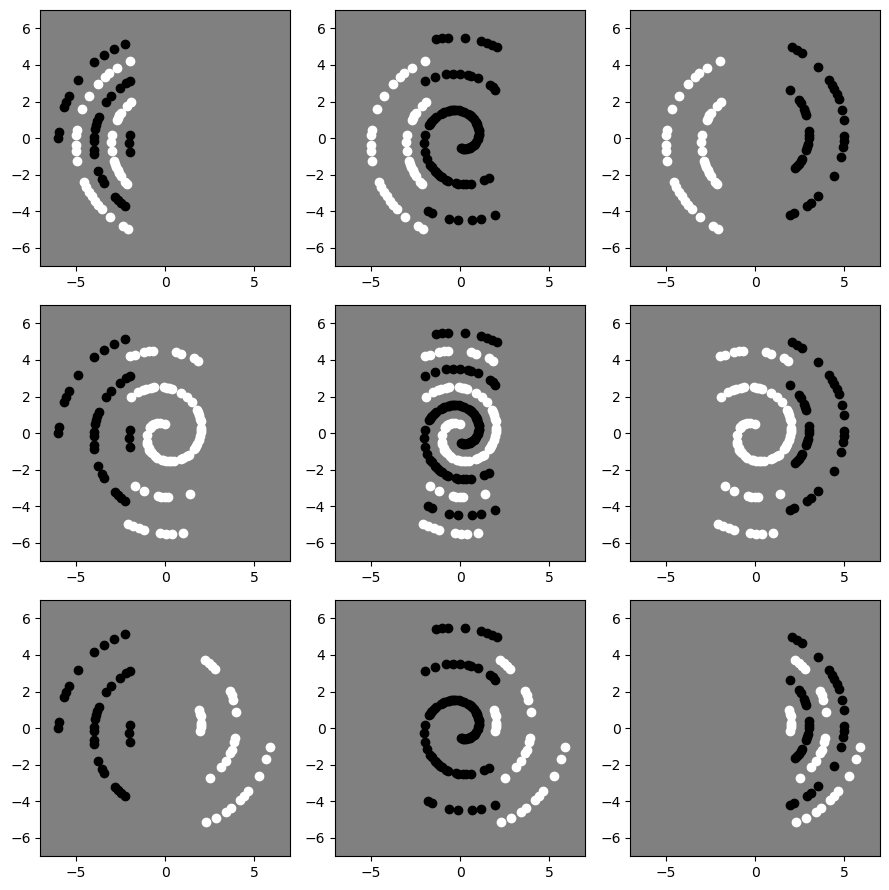
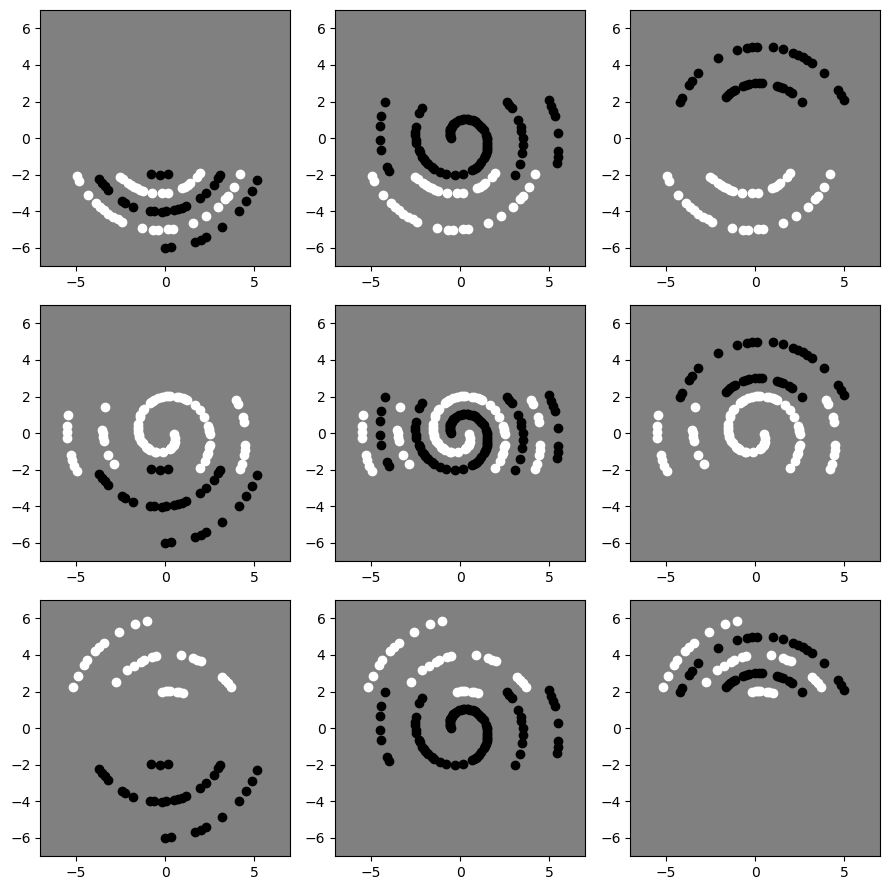
add transpose

diff --git a/utils.py b/utils.py
@@ -78,10 +78,11 @@ def plot_datapoints(white_subsets, black_subsets):
         for j in range(num_partition):
             ax[i][j].set_xlim([-7,7])
             ax[i][j].set_ylim([-7,7])
-            ax[i][j].scatter(white_subsets[i][0], white_subsets[i][1], c='w')
-            ax[i][j].scatter(black_subsets[j][0], black_subsets[j][1], c='black')
+            # we transpose the matrix here to keep corresponding with the pcolormesh function
+            ax[i][j].scatter(white_subsets[i][1], white_subsets[i][0], c='w')
+            ax[i][j].scatter(black_subsets[j][1], black_subsets[j][0], c='black')
     fig.tight_layout()
-    plt.savefig(os.path.join(result_dir, "data_distribution.png"), bbox_inches='tight')
+    plt.savefig(os.path.join(result_dir, "partition_data_distribution.png"), bbox_inches='tight')
 
 def plot_minmax_boundaries(models, model_name, mode):
     partition_num = len(models)
